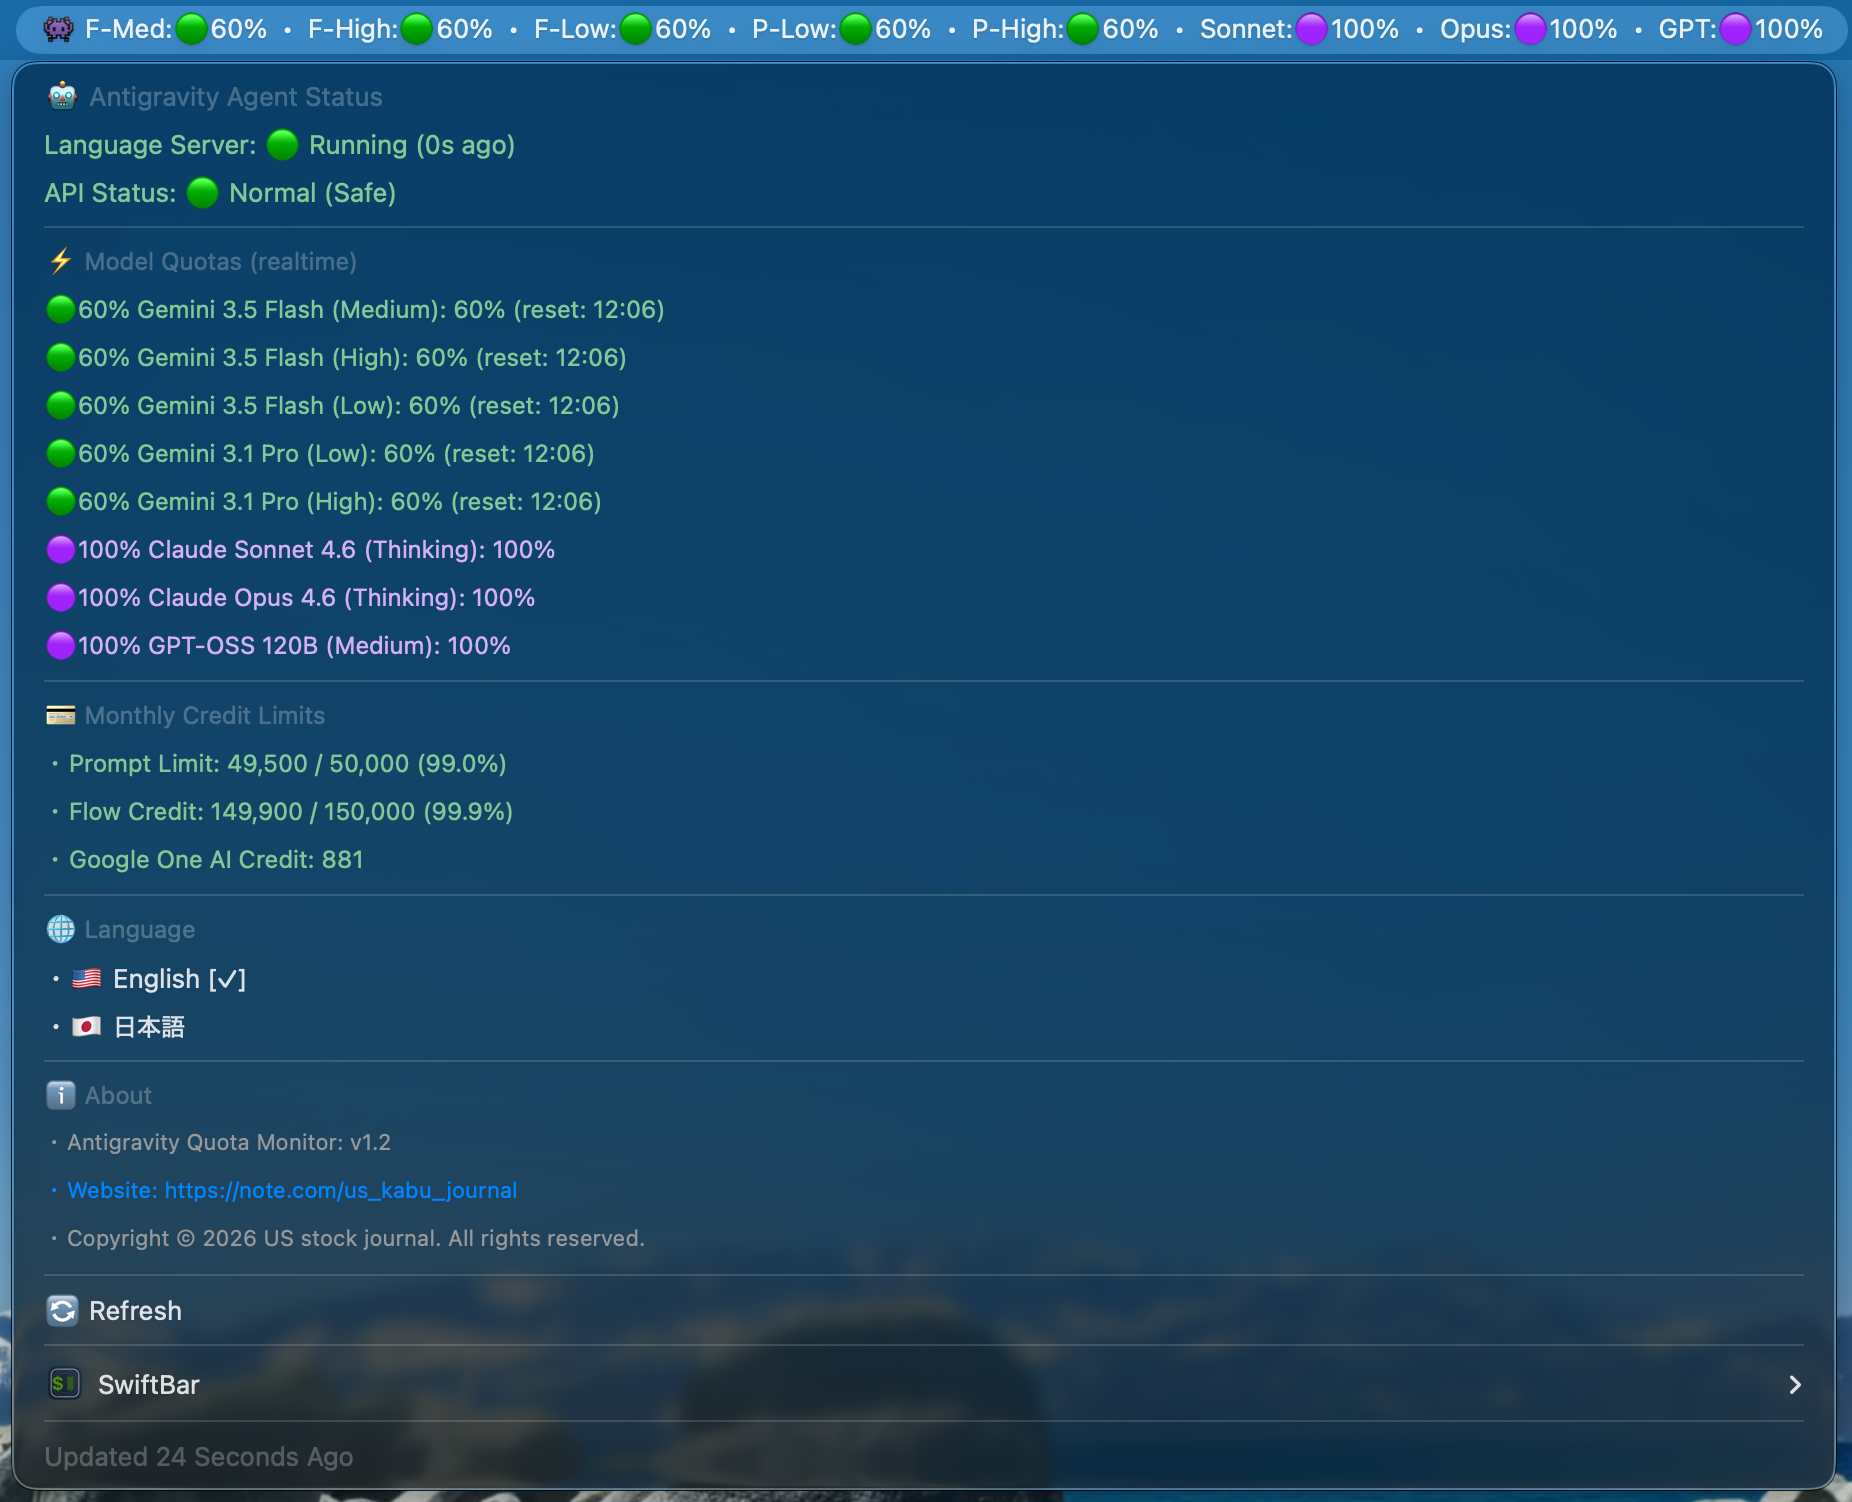
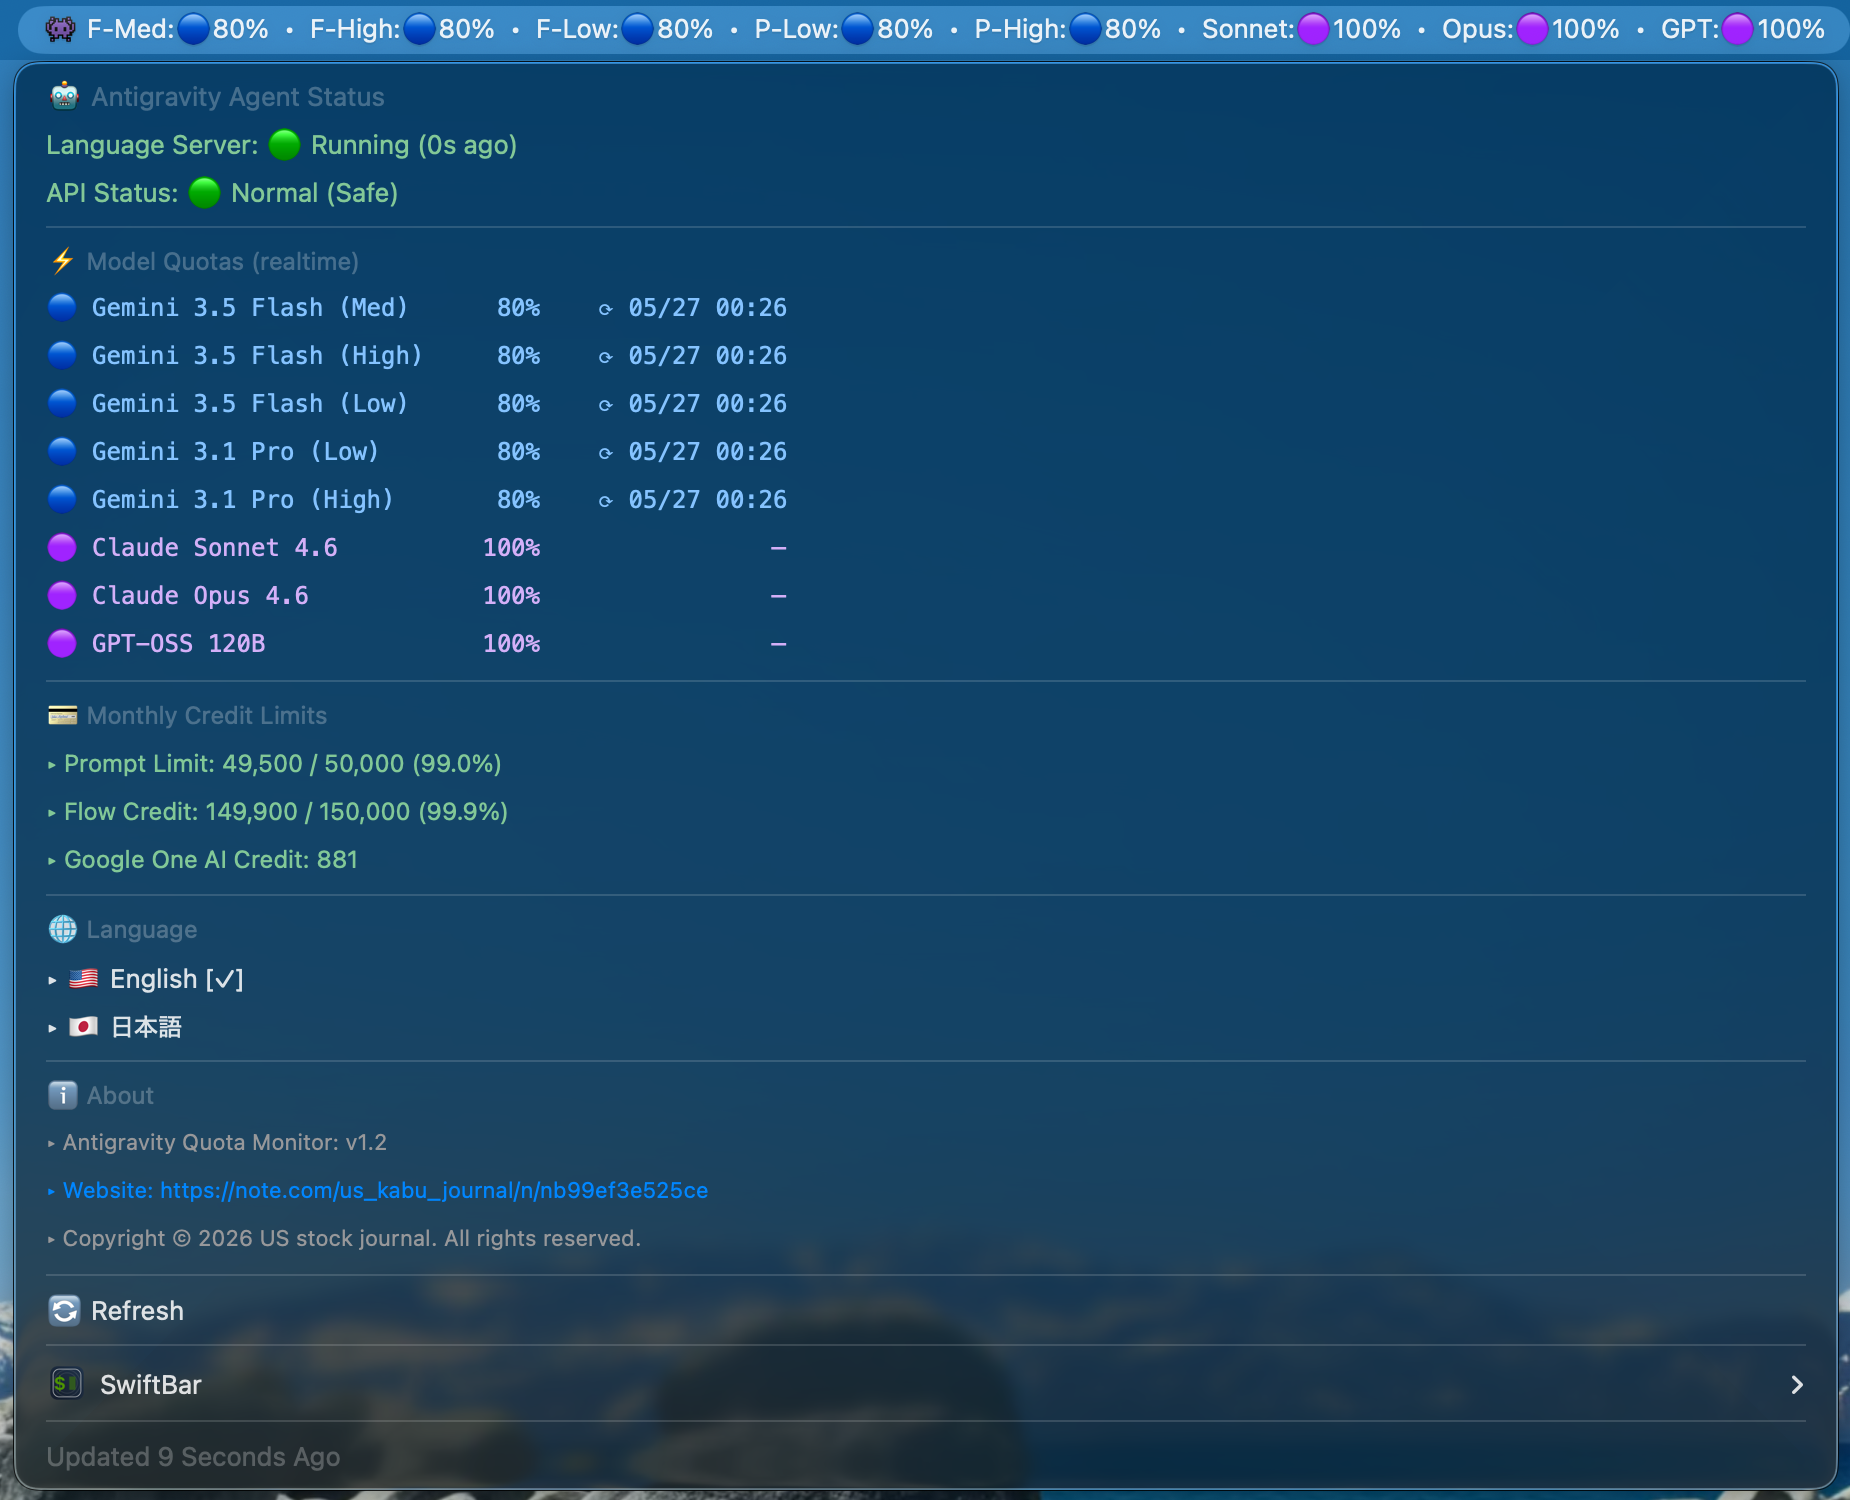
chore: release V1.3.2 with updated assets and push to main

Changed region(s): [[0.0, 0.0, 1.0, 1.0], [0.1849, 0.92, 0.2157, 0.9507]]

diff --git a/README.md b/README.md
@@ -71,6 +71,22 @@ This plugin is optimized for high-performance, low-overhead execution:
 
 ---
 
+## 🔄 Changelog
+
+### 💎 V1.3.2 (May 26, 2026)
+*   **Asset Refresh Integration**: Pushed all updated visual assets including `menu_screenshot.png` directly to the GitHub remote repository to solve registry-side relative path resolution and cache synchronization.
+
+### 💎 V1.3.1 (May 26, 2026)
+*   **Documentation Refinement**: Restored the main README content completely back to English as explicitly requested, ensuring standard global readability while preserving all features.
+
+### 💎 V1.3.0 (May 26, 2026)
+*   **Perfect Vertical Alignment**: Replaced standard list bullets with premium indentation and set dropdown monospace styling using `SFMono-Regular` alongside dynamic padding logic. Your model names now align perfectly like a pro.
+*   **Smart UTC-to-Local Reset Times**: Streamlined quota recovery times by removing the redundant "year" label, adding a custom `⟳` prefix, and dynamically toggling between "Today" and "Tomorrow" formats depending on local times.
+*   **Premium Cropped Neon Logo**: Restored the original high-tech dark metallic rounded rectangle background while cropping the glowing cyan neon quota circle and "AQM" typography right to the borders (margins-free) for a state-of-the-art tech icon.
+*   **Extension Asset Packaging**: Bundled `banner.png` and `menu_screenshot.png` directly inside the packaged VSIX extension to fully bypass strict Content Security Policy (CSP) blocking inside VS Code.
+
+---
+
 ## 📄 License
 
 This project is licensed under the **Apache License 2.0**.
